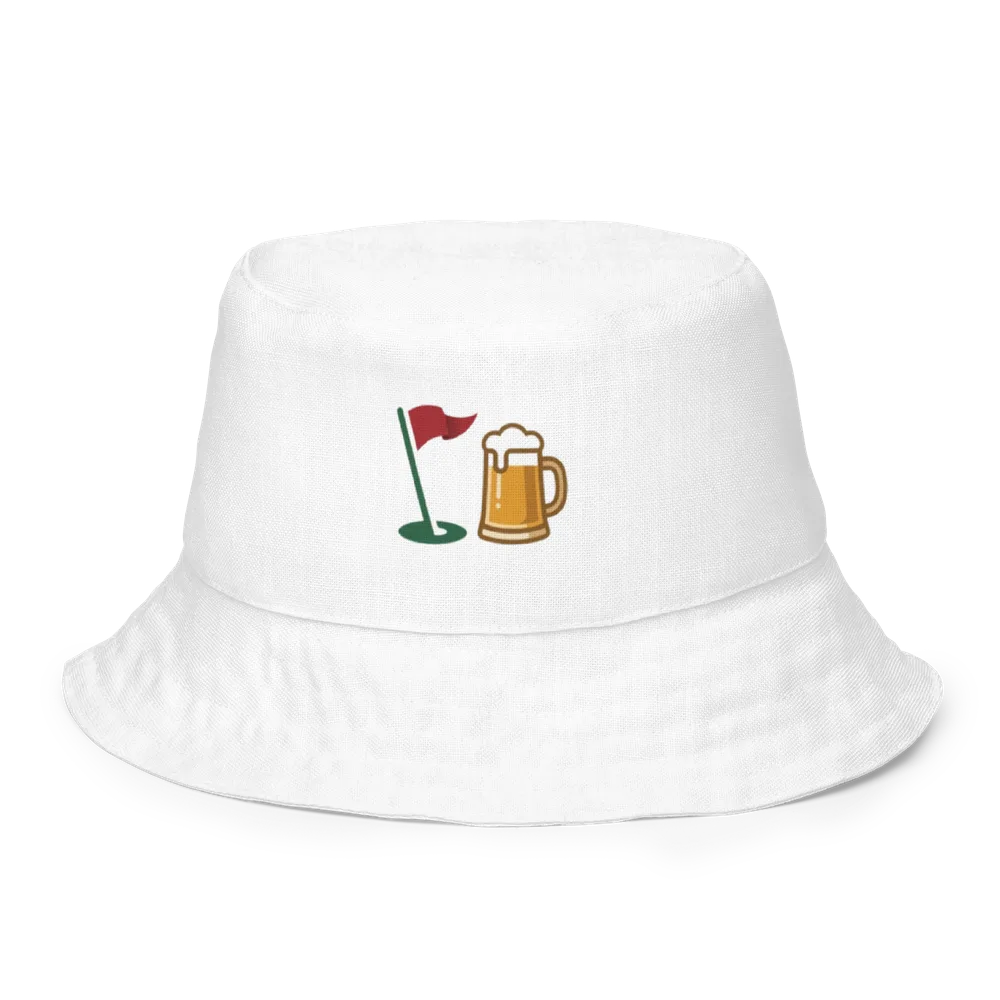
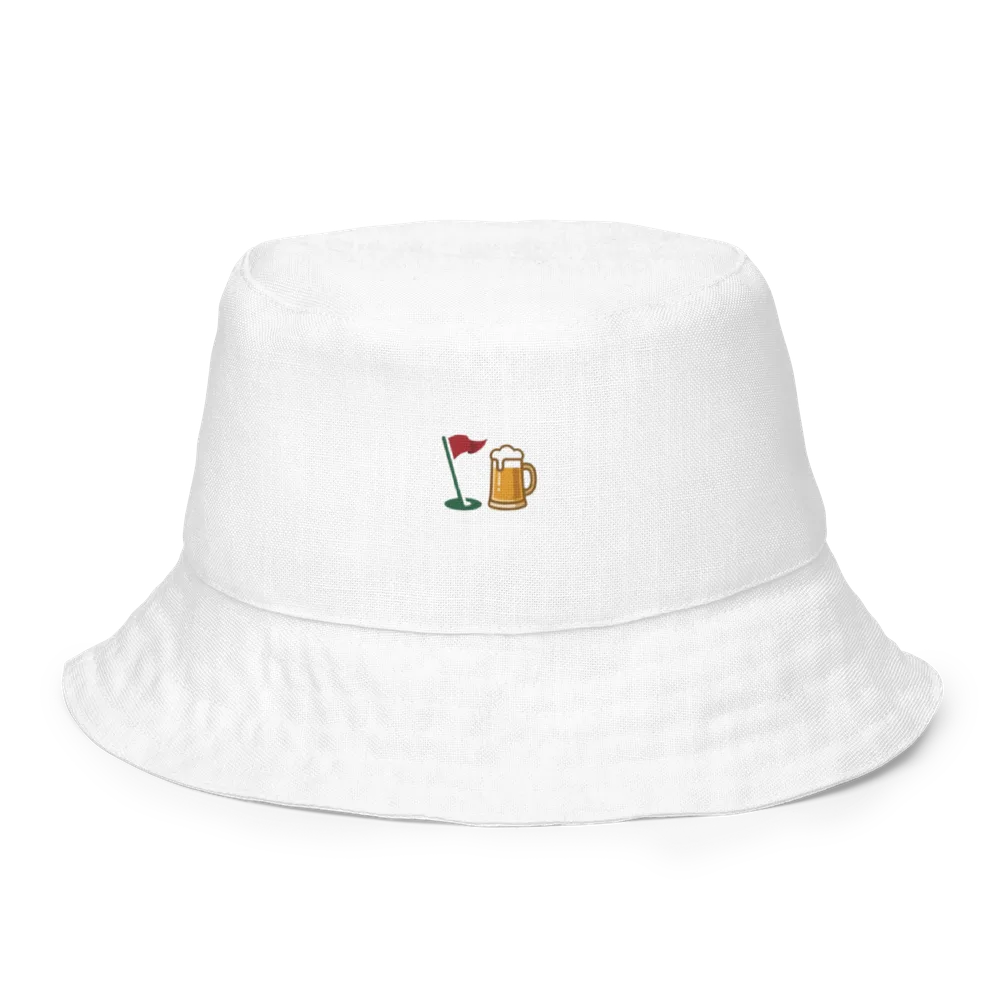
Replace gorro-pescador photos with the new uploads
Resize the 4 new Printful mockups (2000x2000 PNGs) to 1000x1000 webp
and swap them in for the previous set: flat lay, two model shots, and
an angled view.

Changed region(s): [[0.372, 0.403, 0.589, 0.558]]

diff --git a/src/data/productImages.ts b/src/data/productImages.ts
@@ -16,9 +16,9 @@ import gorroInviernoModel1 from '../assets/gorro-invierno/gorro-invierno-model-1
 import gorroInviernoModel2 from '../assets/gorro-invierno/gorro-invierno-model-2.webp'
 import gorroInviernoDetail from '../assets/gorro-invierno/gorro-invierno-detail.webp'
 import gorroPescadorFlat from '../assets/gorro-pescador/gorro-pescador-flat.webp'
-import gorroPescadorModel from '../assets/gorro-pescador/gorro-pescador-model.webp'
+import gorroPescadorModel1 from '../assets/gorro-pescador/gorro-pescador-model-1.webp'
+import gorroPescadorModel2 from '../assets/gorro-pescador/gorro-pescador-model-2.webp'
 import gorroPescadorAngle from '../assets/gorro-pescador/gorro-pescador-angle.webp'
-import gorroPescadorInside from '../assets/gorro-pescador/gorro-pescador-inside.webp'
 
 /**
  * Photos for products that already have them, keyed by product id.
@@ -37,7 +37,7 @@ export const LOCAL_PRODUCT_IMAGES: Record<string, string[]> = {
 // match by a keyword in the name instead of relying on the exact id.
 const LOCAL_PRODUCT_IMAGES_BY_KEYWORD: { keyword: string; images: string[] }[] = [
   { keyword: 'invierno', images: [gorroInviernoFlat, gorroInviernoModel1, gorroInviernoModel2, gorroInviernoDetail] },
-  { keyword: 'pescador', images: [gorroPescadorFlat, gorroPescadorModel, gorroPescadorAngle, gorroPescadorInside] },
+  { keyword: 'pescador', images: [gorroPescadorFlat, gorroPescadorModel1, gorroPescadorModel2, gorroPescadorAngle] },
 ]
 
 export function localImagesFor(id: string, name: string): string[] | undefined {
